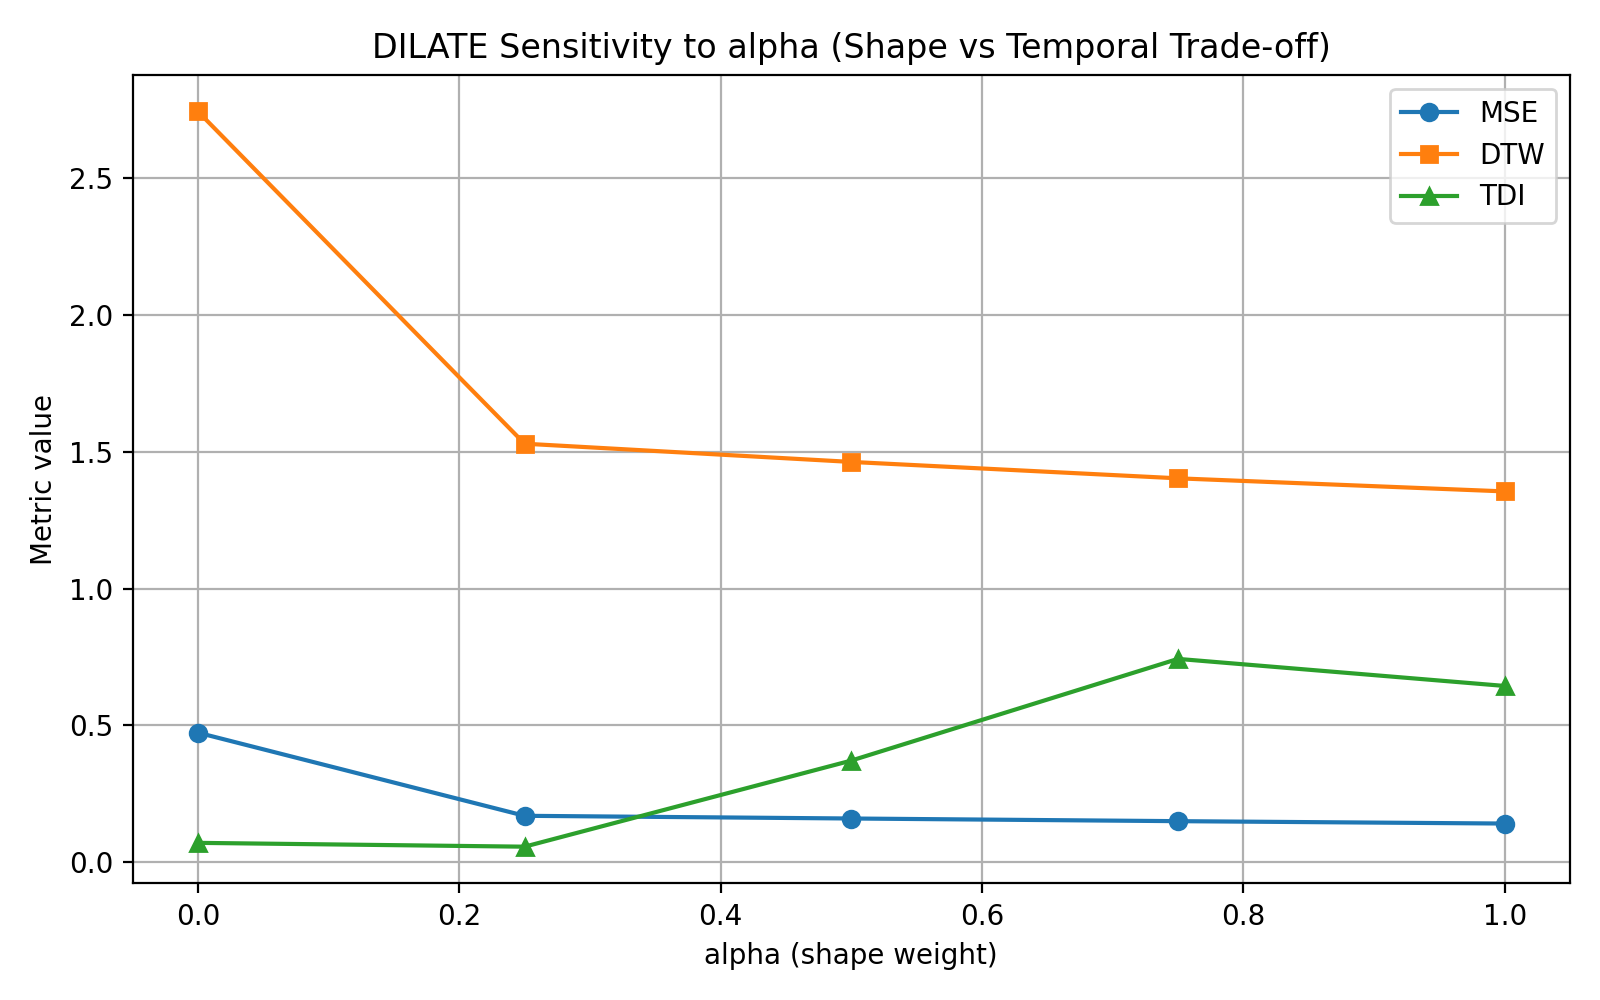
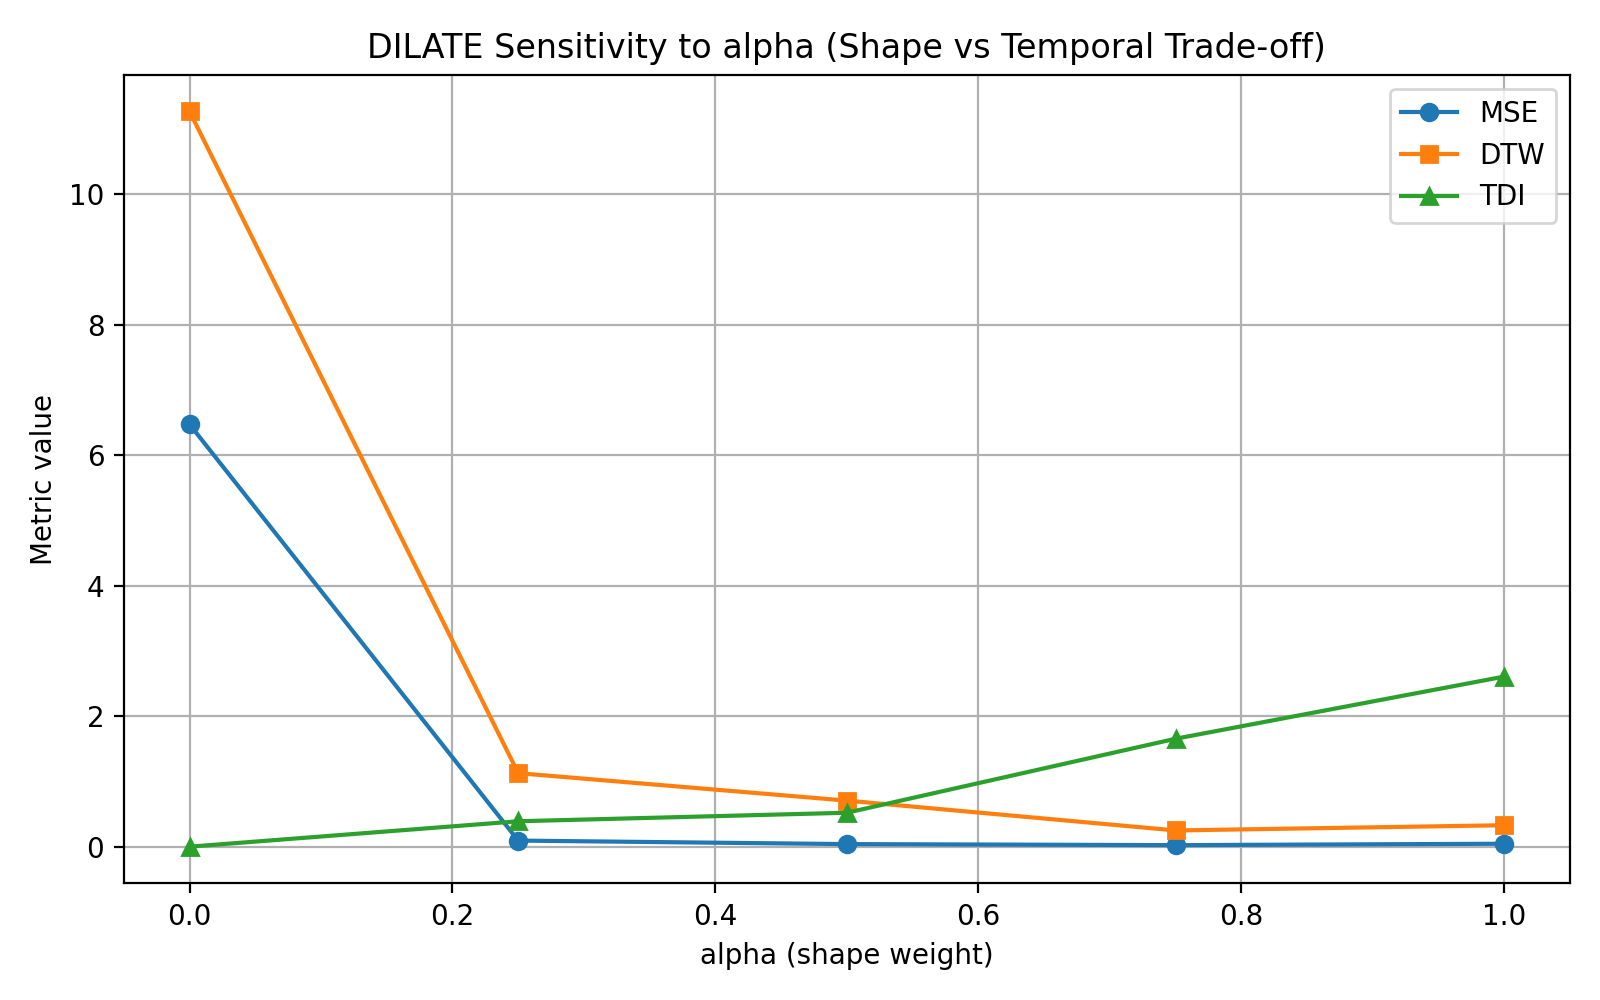
Sensitivity analysis

diff --git a/sensitivity/Omega/run_omega.py b/sensitivity/Omega/run_omega.py
@@ -9,9 +9,13 @@ from data.synthetic_dataset import SyntheticDataset
 import time
 from utils import format_time
 batch_size = 100
-gamma_grid = [0.001, 0.01, 1]
+Omega_choices = ["l2", "l1", "asymmetric", "huber"]
+Omega_to_id = {name: i for i, name in enumerate(Omega_choices)}
+
 alpha = 0.5
-epochs = 250
+gamma = 0.01
+# epochs = 250
+epochs = 2
 
 # Load the synthetic dataset (same split as training)
 with open("synthetic_dataset.pkl", "rb") as f:
@@ -26,15 +30,14 @@ device = torch.device("cuda" if torch.cuda.is_available() else "cpu")
 
 
 results = []
-start_time = time.time()
-for gamma in gamma_grid:
-    print(f"\n=== Gamma = {gamma} ===")
+
+for Omega in Omega_choices:
+    print(f"\n=== Omega = {Omega} ===")
 
     encoder = EncoderRNN(1, 128, 1, batch_size=100).to(device)
     decoder = DecoderRNN(1, 128, 1, 16, 1).to(device)
     net = Net_GRU(encoder, decoder, target_length=20, device=device).to(device)
     t0 = time.time()
-
     train_model(
         trainloader, 
         device,
@@ -44,20 +47,23 @@ for gamma in gamma_grid:
         gamma=gamma,
         alpha=alpha,
         epochs=epochs,
+        Omega=Omega,
     )
+
     metrics = evaluate_metrics(net, testloader, device)
-    metrics["gamma"] = gamma
+    metrics["Omega_id"] = Omega_to_id[Omega]
     results.append(metrics)
     print("Runtime : ", format_time(time.time() - t0))
 
-with open("sensitivity/gamma/results_gamma.pkl", "wb") as f:
+with open("sensitivity/Omega/results_Omega_resr.pkl", "wb") as f:
     pickle.dump(results, f)
 
 plot_sensitivity(
-    results_path="sensitivity/gamma/results_gamma.pkl",
-    x_key="gamma",
-    save_path="sensitivity/gamma/gamma_sensitivity.png",
-    title="DILATE Sensitivity to gamma (Soft-DTW smoothness)",
-    x_label="gamma (Soft-DTW smoothing)",
-    log_x=True
+    results_path="sensitivity/Omega/results_Omega_test.pkl",
+    x_key="Omega_id",
+    x_label="Omega choice", 
+    save_path="sensitivity/Omega/Omega_sensitivity_test.png",
+    title="DILATE Sensitivity to Omega (Shape vs Temporal Trade-off)",
+    log_x=False,
+    Omega=True
 )

diff --git a/loss/flexible_dilate_loss.py b/loss/flexible_dilate_loss.py
@@ -2,7 +2,7 @@ import torch
 from . import soft_dtw
 from . import path_soft_dtw 
 
-def dilate_loss(outputs, targets, alpha, gamma, device, Omega=None):
+def flexible_dilate_loss(outputs, targets, alpha, gamma, device, Omega=None):
     """
     DILATE loss where the user can specify Omega.
     If Omega=None, a default asymmetric temporal penalty is used.
@@ -22,12 +22,24 @@ def dilate_loss(outputs, targets, alpha, gamma, device, Omega=None):
 
     # ---------- Temporal path ----------
     path = path_soft_dtw.PathDTWBatch.apply(D, gamma)
-
+    
+    
     # ---------- Omega definition ----------
-    if Omega is None:  # default option
+    if Omega is None or Omega == "l2":  # default option, use the paper's Omega
         t = torch.arange(1, N_output+1).float().view(-1,1).to(device)
-        Omega = soft_dtw.pairwise_temporal_asymmetric(t_true=t, t_pred=t)
-
+        Omega = soft_dtw.pairwise_distances(x=t, y=t)
+    elif Omega == "l1": # L1 temporal penalty
+        t = torch.arange(1, N_output+1).float().view(-1,1).to(device)
+        Omega = soft_dtw.pairwise_distances_l1(t, t)
+    elif Omega == "asymmetric": # asymmetric temporal penalty (late >> early)
+        t = torch.arange(1, N_output+1).float().view(-1,1).to(device)
+        Omega = soft_dtw.pairwise_temporal_asymmetric(t, t, late_weight=3.0, early_weight=1.0)
+    elif Omega == 'huber':
+        t = torch.arange(1, N_output+1).float().view(-1,1).to(device)
+        Omega = soft_dtw.pairwise_distances_huber(t, t, delta=5.0)
+    else:
+        raise ValueError("Unknown Omega type, please choose among None, 'l2', 'l1', 'asymmetric', 'huber'.")
+    
     # ---------- Temporal loss ----------
     loss_temporal = torch.sum(path * Omega) / (N_output * N_output)
 

diff --git a/sensitivity/train_script.py b/sensitivity/train_script.py
@@ -1,5 +1,5 @@
 import torch
-from loss.dilate_loss import dilate_loss
+from loss.flexible_dilate_loss import flexible_dilate_loss
 from tqdm import tqdm
 def train_model(
     trainloader,
@@ -9,6 +9,7 @@ def train_model(
     learning_rate,
     alpha,
     gamma,
+    Omega=None,
     epochs=150,
 ):
     optimizer = torch.optim.Adam(net.parameters(), lr=learning_rate)
@@ -30,11 +31,12 @@ def train_model(
             targets = targets.float().to(device)
 
             outputs = net(inputs)
+            print(outputs.shape, targets.shape)
             if (loss_type=='mse'):
                 criterion = torch.nn.MSELoss()
                 loss = criterion(outputs, targets)
             if (loss_type=='dilate'):
-                loss, _, _ = dilate_loss(outputs=outputs, targets=targets, alpha=alpha, gamma=gamma,device=device
+                loss, _, _ = flexible_dilate_loss(outputs=outputs, targets=targets, alpha=alpha, gamma=gamma,device=device, Omega=Omega
                 )
 
             optimizer.zero_grad()

diff --git a/sensitivity/utils_sensitivity.py b/sensitivity/utils_sensitivity.py
@@ -41,7 +41,8 @@ def plot_sensitivity(
     save_path,
     title,
     x_label,
-    log_x=False
+    log_x=False,
+    Omega = False
 ):
     with open(results_path, "rb") as f:
         results = pickle.load(f)
@@ -59,7 +60,9 @@ def plot_sensitivity(
 
     if log_x:
         plt.xscale("log")
-
+    if Omega:
+        omega_labels = ["l2", "l1", "asymmetric", "huber"]
+        plt.xticks(range(len(omega_labels)), omega_labels)
     plt.xlabel(x_label)
     plt.ylabel("Metric value")
     plt.title(title)
